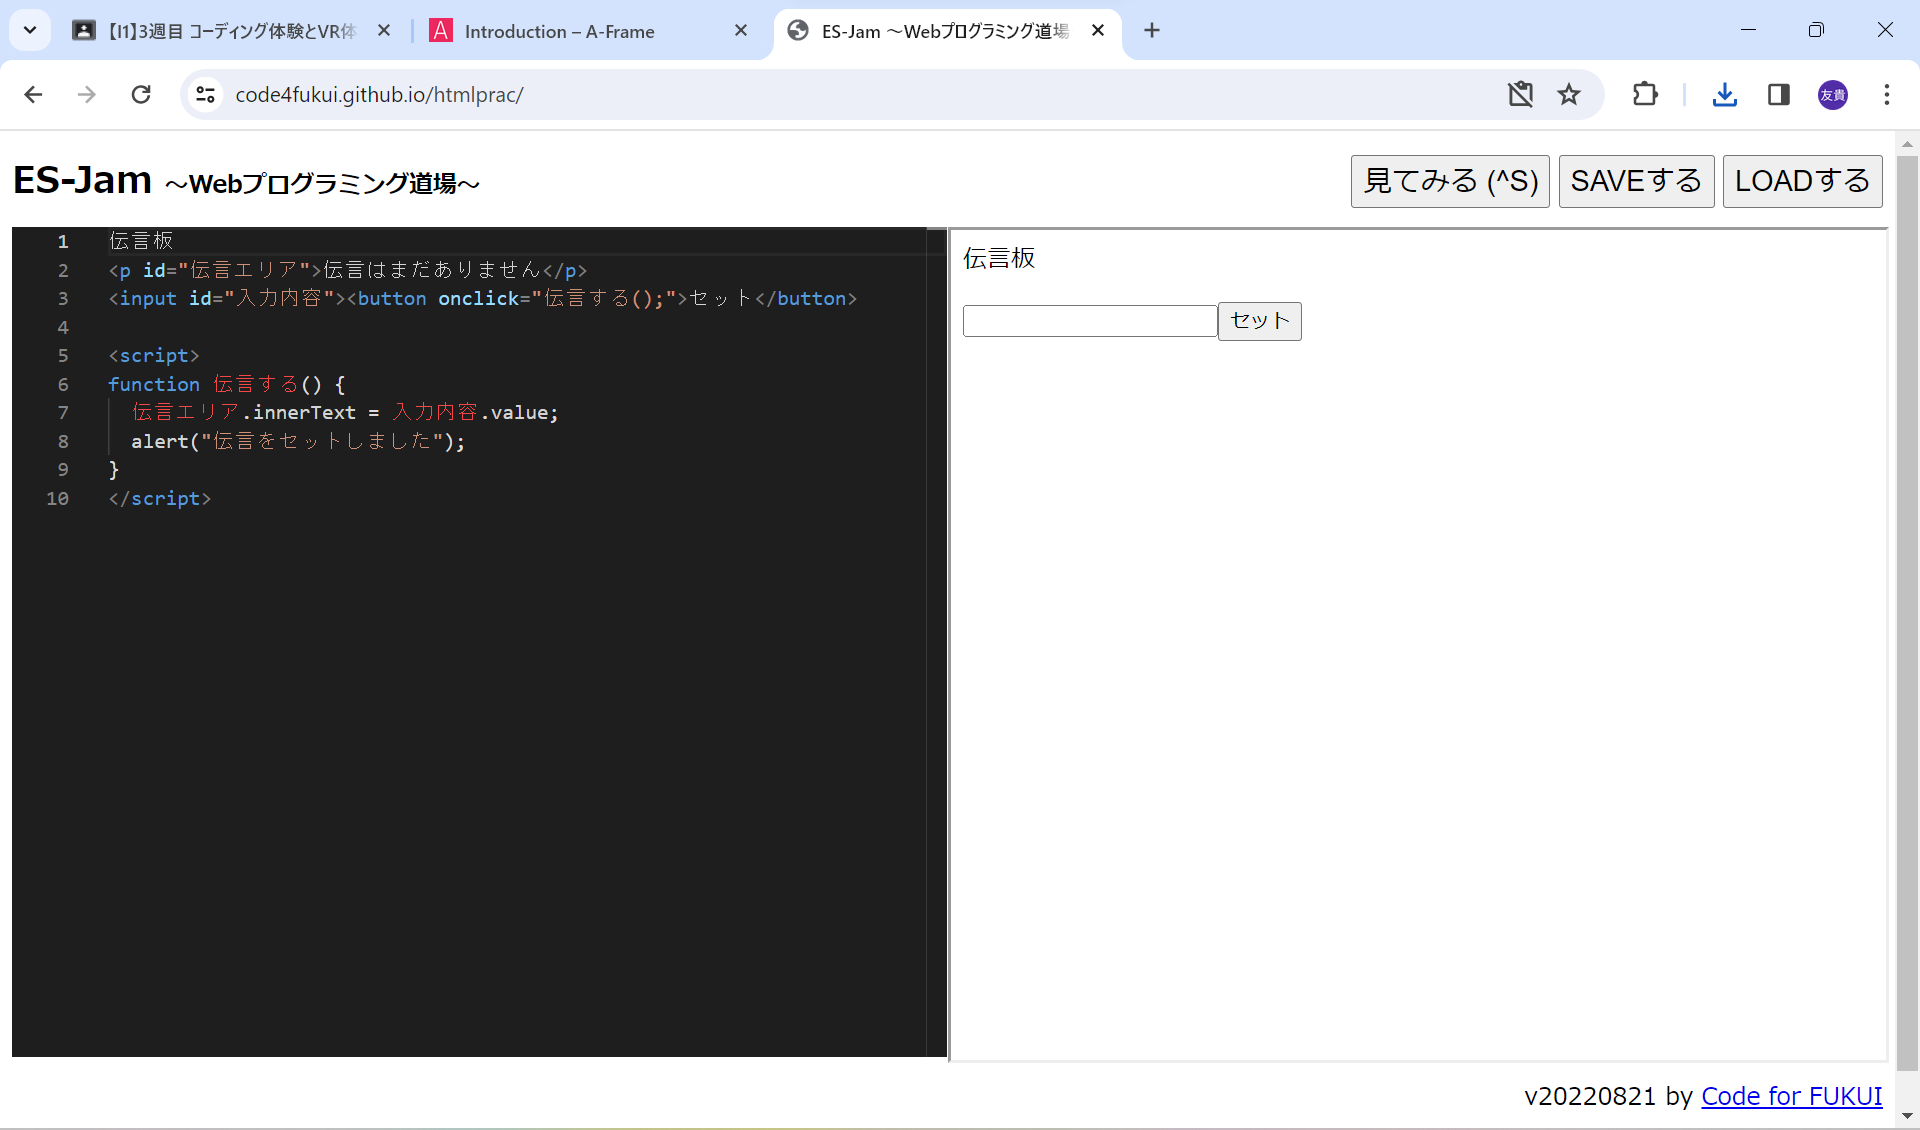
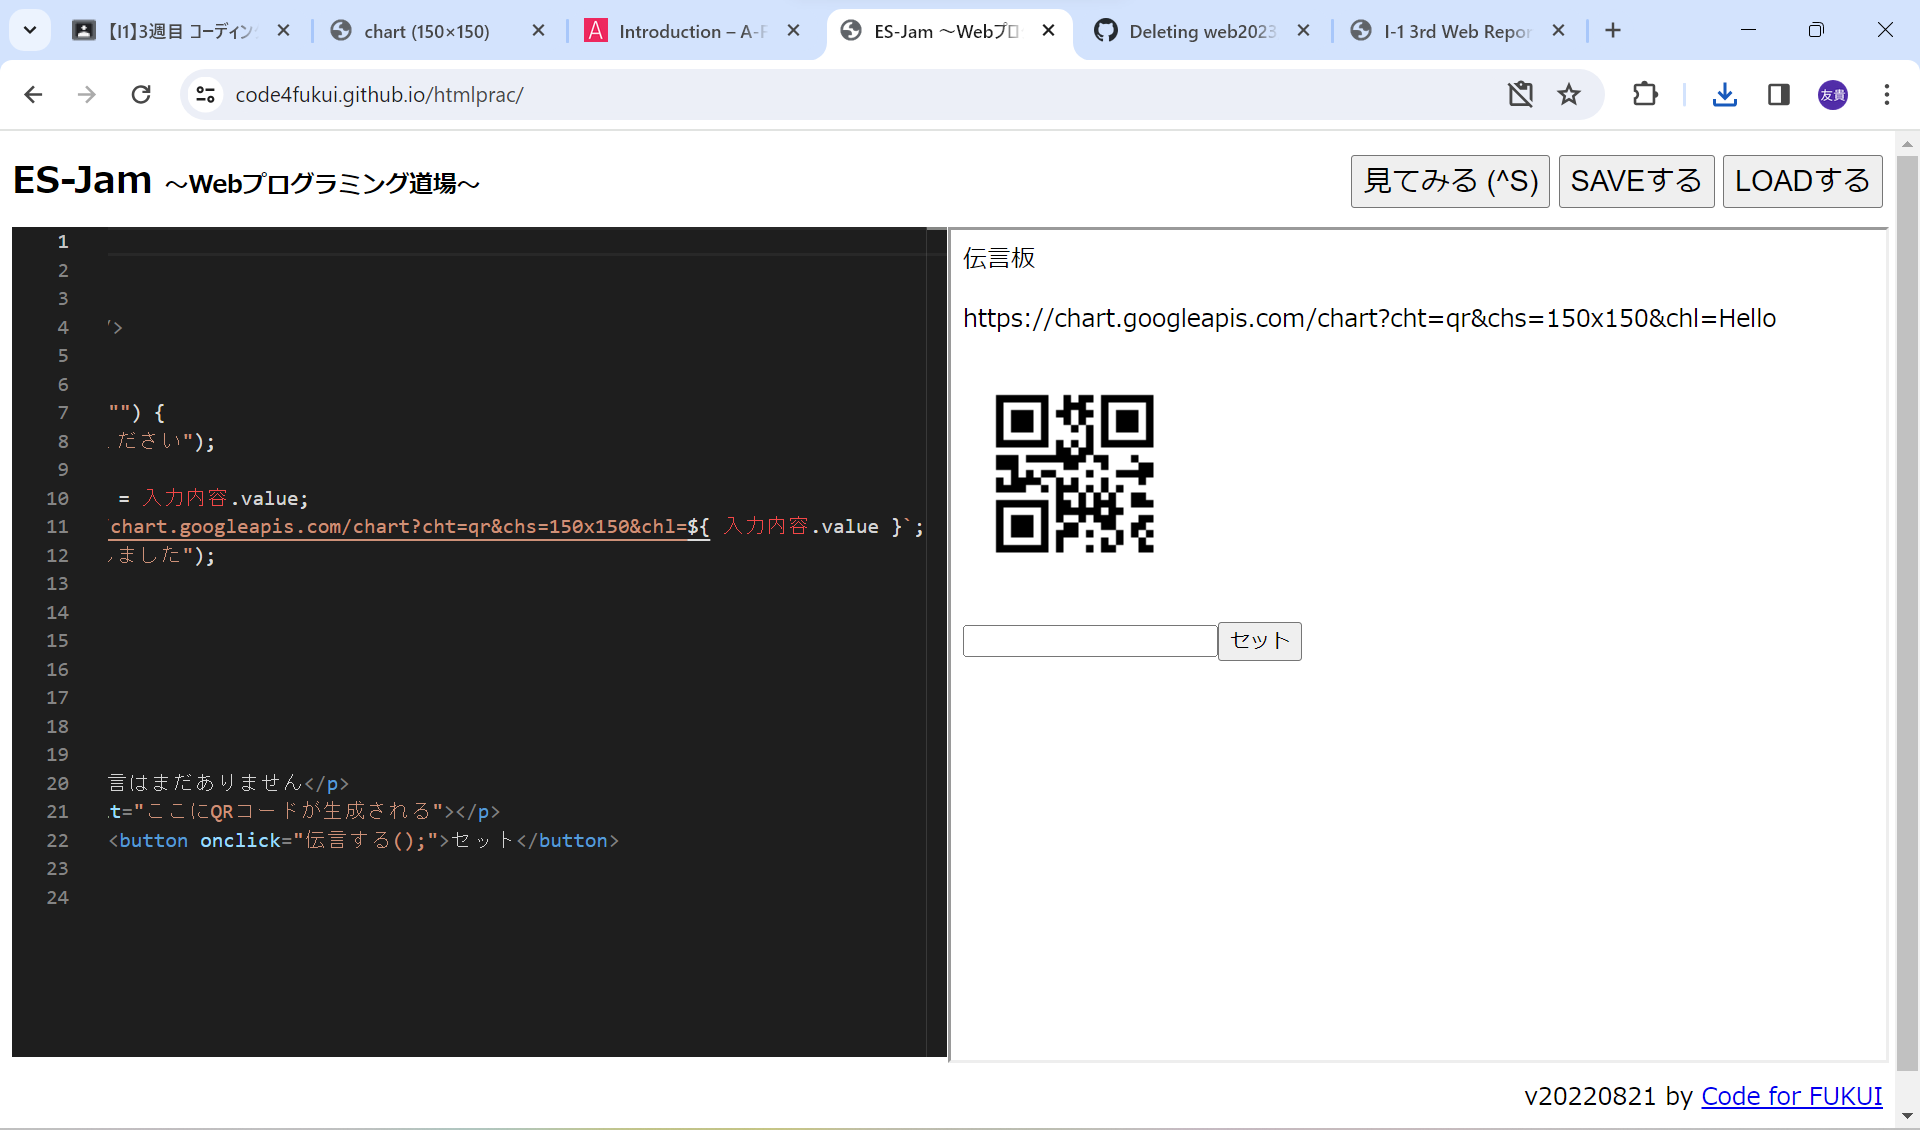
Add files via upload

diff --git a/dengon.html b/dengon.html
@@ -1,10 +1,24 @@
-伝言板
-<p id="伝言エリア">伝言はまだありません</p>
-<input id="入力内容"><button onclick="伝言する();">セット</button>
-
-<script>
+<!DOCTYPE html>
+<html>
+ <head>
+  <meta charset="utf-8"/>
+  <script>
 function 伝言する() {
-  伝言エリア.innerText = 入力内容.value;
-  alert("伝言をセットしました");
+  if (入力内容.value == "") {
+    alert("内容を入れてください");
+  } else {
+    伝言エリア.innerText = 入力内容.value;
+    画像.src = `https://chart.googleapis.com/chart?cht=qr&chs=150x150&chl=${ 入力内容.value }`;
+    alert("伝言をセットしました");
+    入力内容.value = "";
+  }
 }
 </script>
+ </head>
+ <body>
+   伝言板
+   <p id="伝言エリア">伝言はまだありません</p>
+   <p> <img id="画像" alt="ここにQRコードが生成される"></p>
+   <input id="入力内容"><button onclick="伝言する();">セット</button>
+ </body>
+</html>
